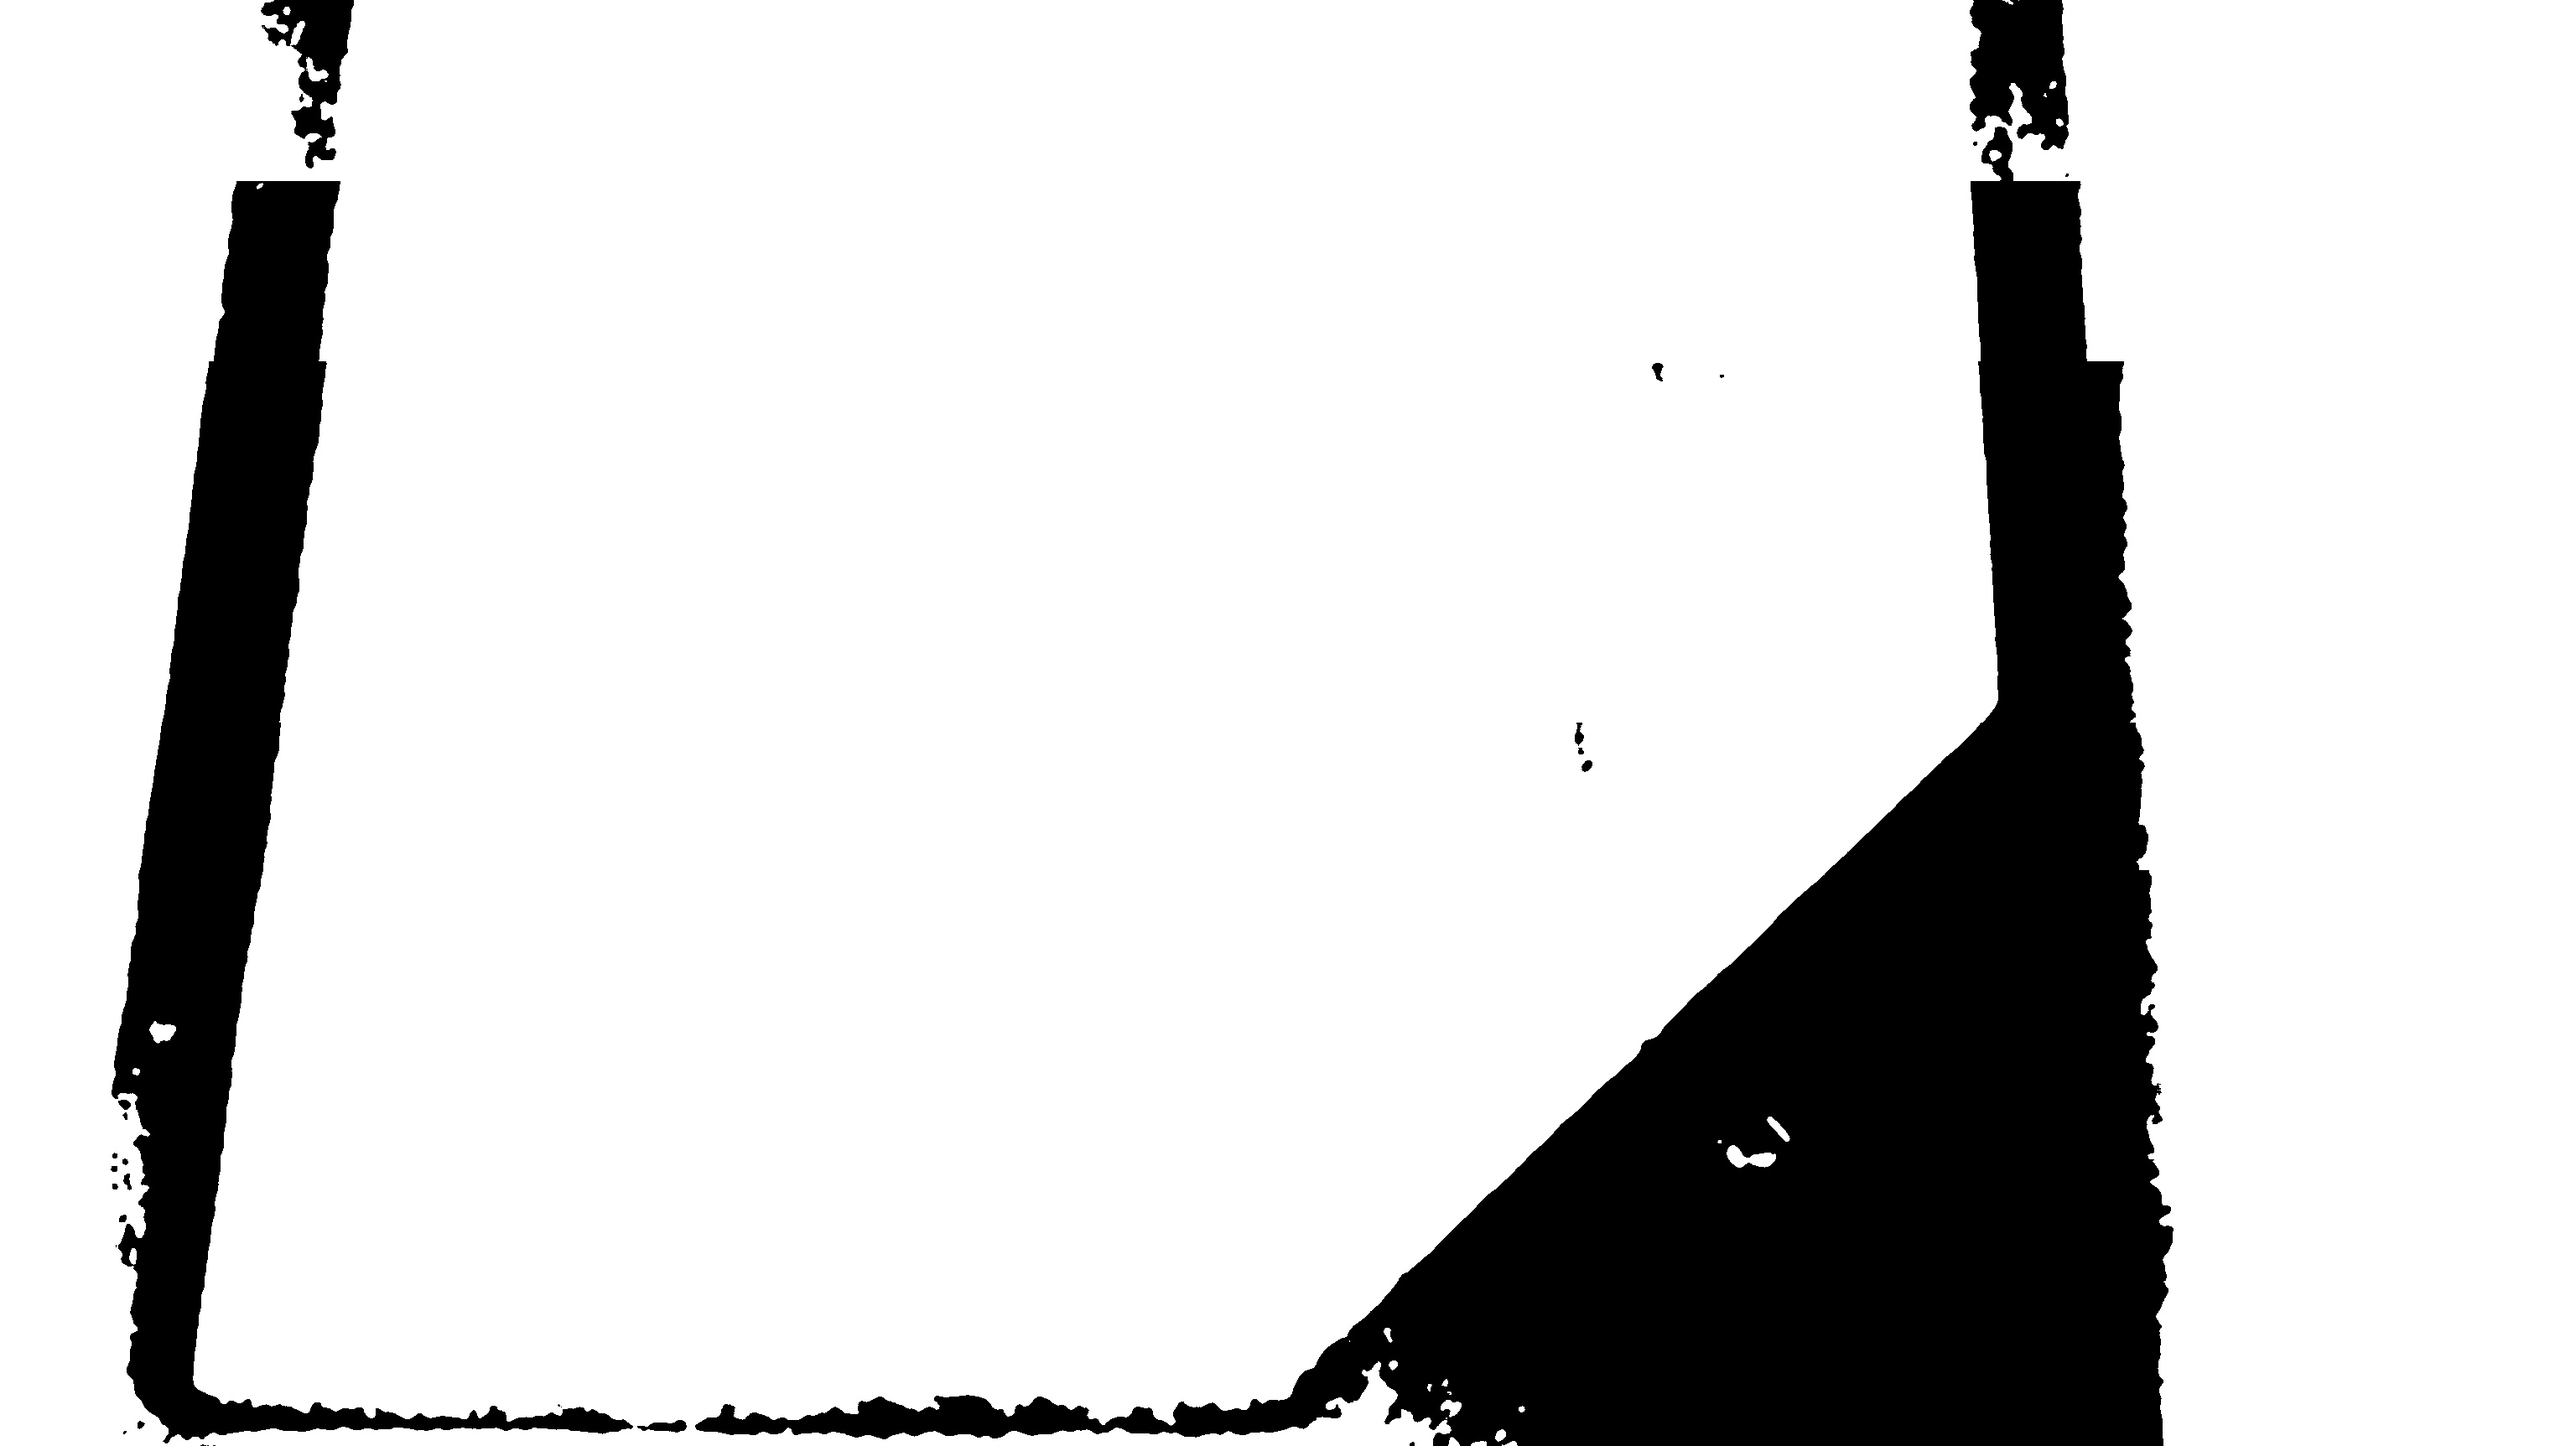
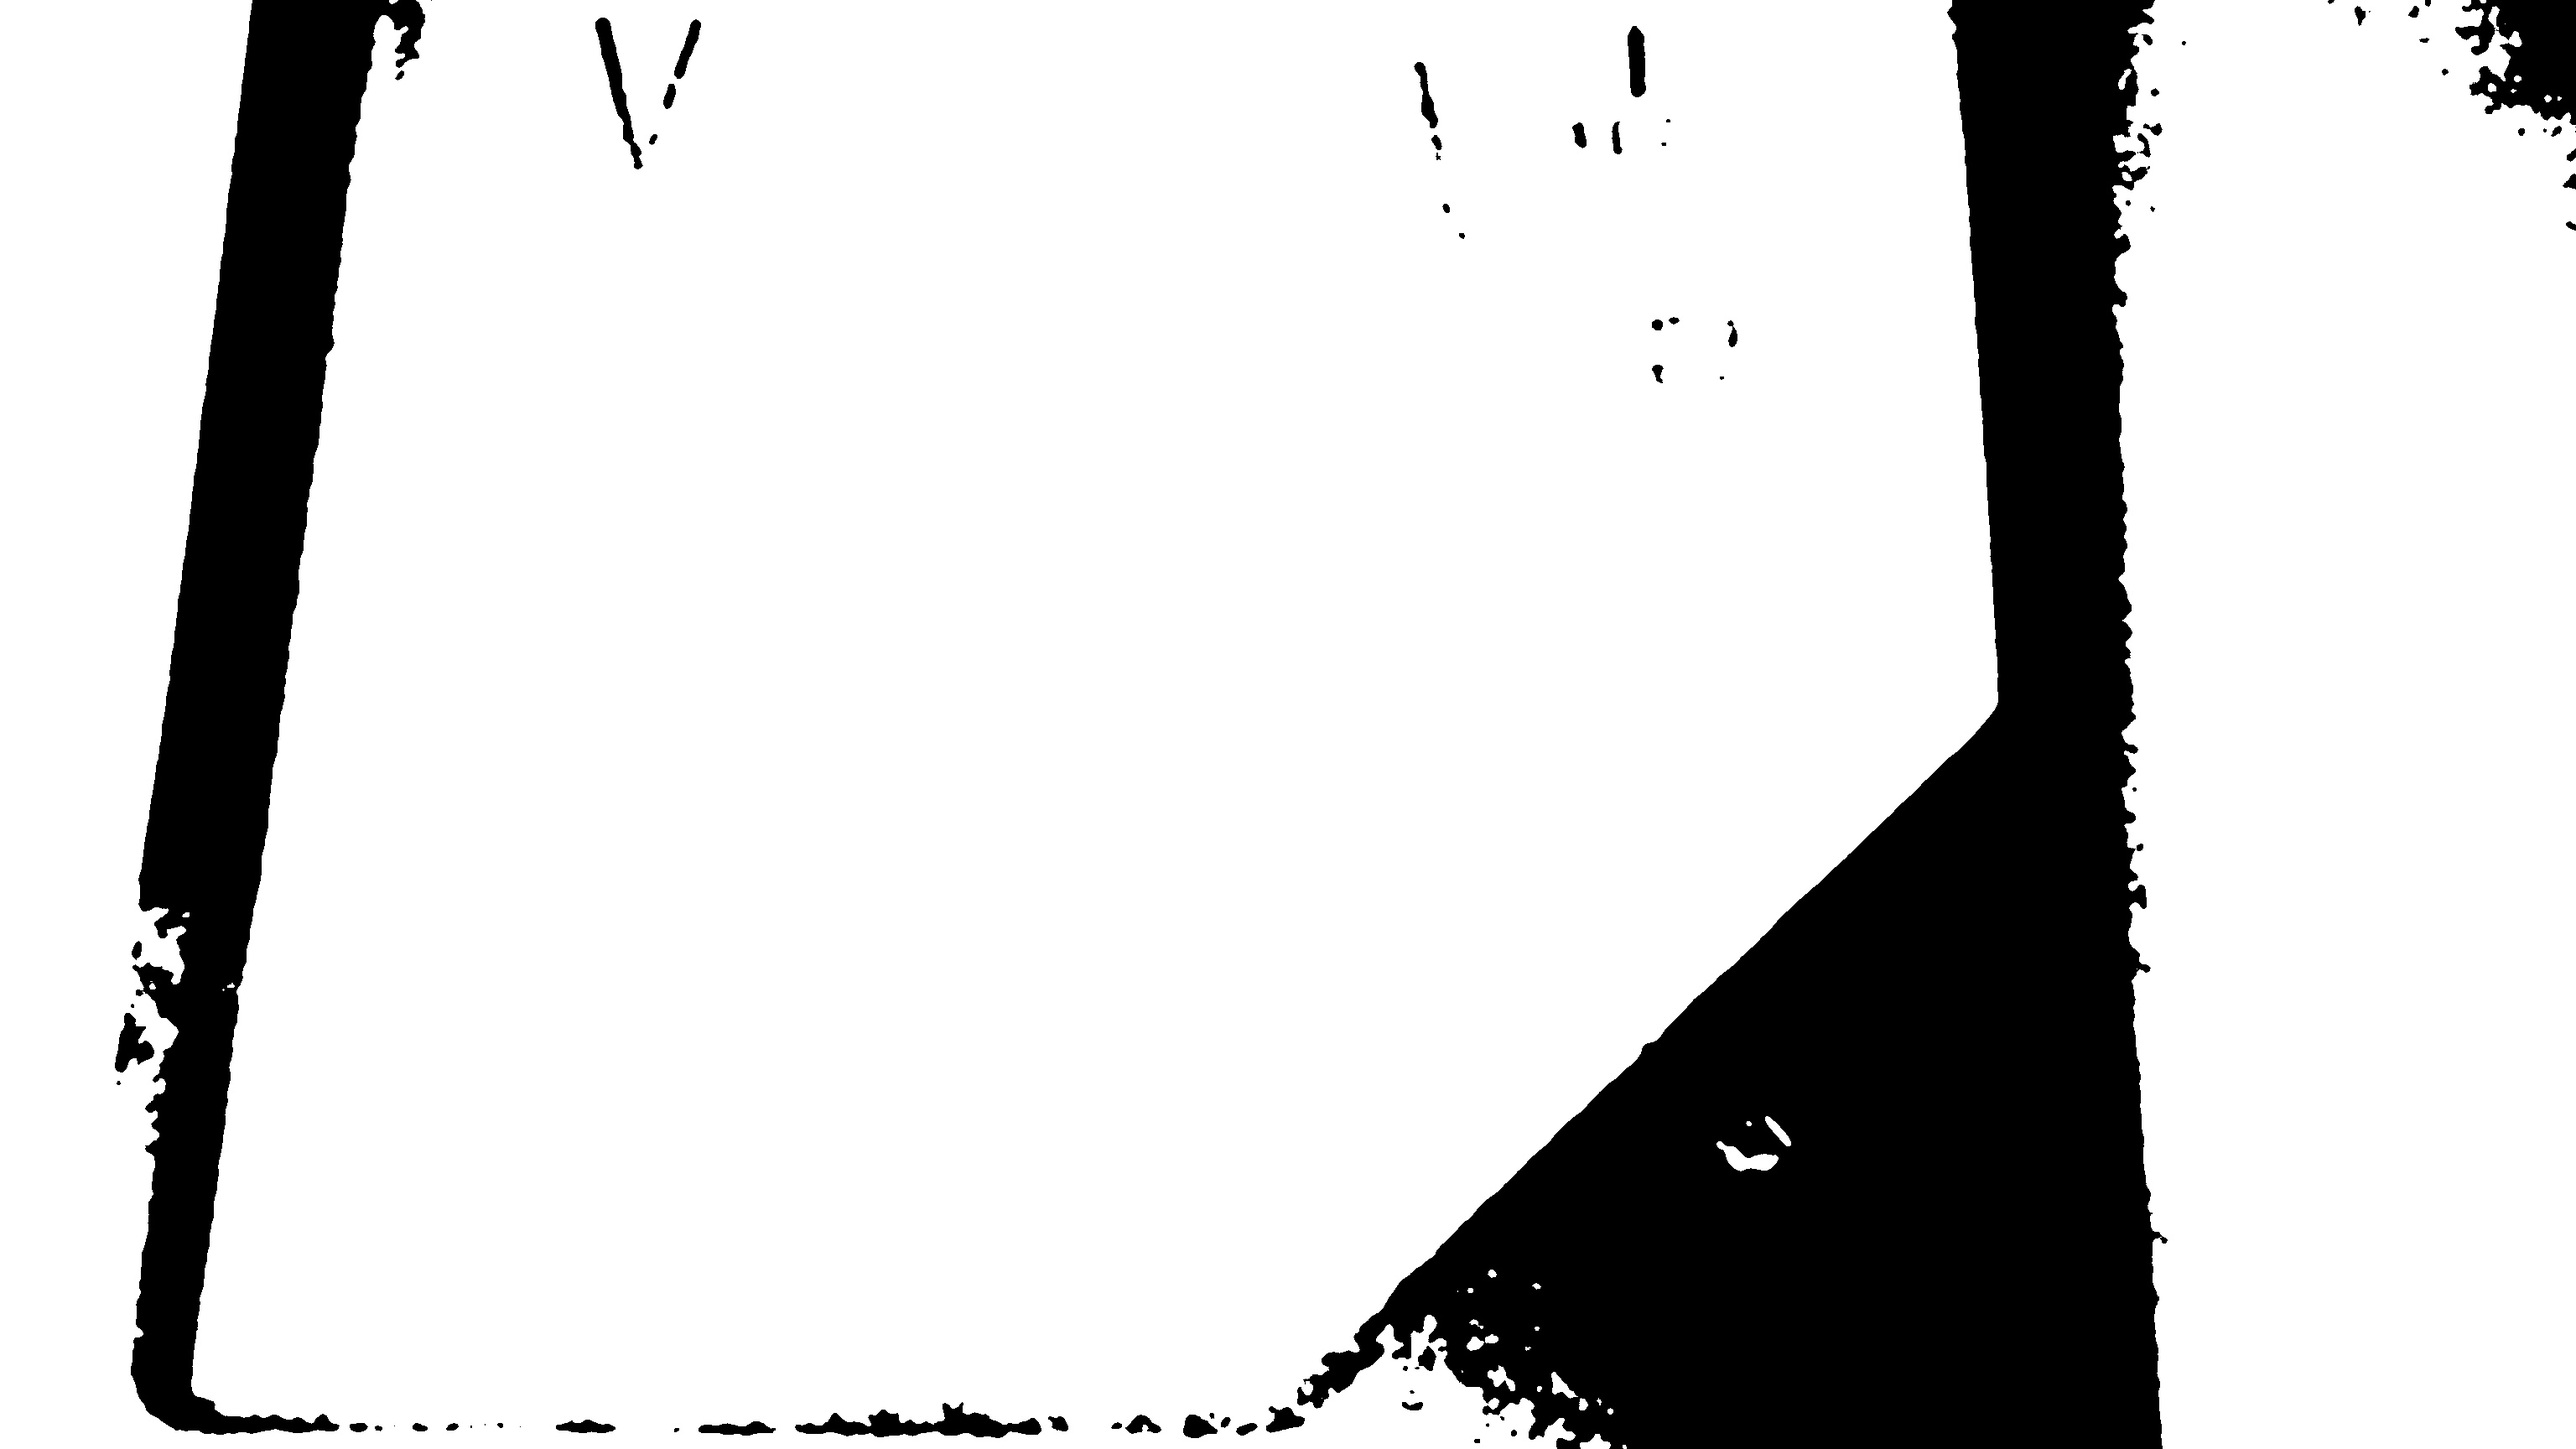
支持对旋转的表盘进行识别

diff --git a/ReadingMeters/Main.cpp b/ReadingMeters/Main.cpp
@@ -8,7 +8,7 @@
 #include <Windows.h>
 #include <math.h>
 
-#define IMAGE_NUM 7
+#define IMAGE_NUM 5
 #define WINDOW_CHANGABLESIZE 0
 #define CANNY_THRESHOLD_1 45
 #define CANNY_THRESHOLD_2 90
@@ -29,6 +29,8 @@
 #define VARIANCE_THRESHOLD0 1000
 #define VARIANCE_THRESHOLD1 10
 #define SEP_LEVEL 20
+#define ZOOM_TIMES 5
+#define CUT_PART 36
 
 using namespace cv;
 using namespace std;
@@ -48,10 +50,11 @@ Mat SeperateRGB(Mat srcImage, int num, int low, int high);
 vector<Vec2f> VarianceSelectOfLines(vector<Vec2f> lines, float threshold0, float threshold1);
 int * SamplingMat(int targetrows, int targetcols, Mat inputImage, int num);
 Mat transform(Mat dstImage, Mat srcImage, int num);
+Mat rotateImage(Mat img, double degree);
 
 int main() {
-	printf("\n\n\n##########     ReadingMeters v0.0.10     ##########\n");
-	printf("##########  Last updating in 2017/11/5   ##########\n\n\n");
+	printf("\n\n\n##########     ReadingMeters v0.0.11     ##########\n");
+	printf("##########  Last updating in 2017/11/19   ##########\n\n\n");
 
 	int pic_num = 1;
 
@@ -208,6 +211,8 @@ Mat transformProcess(Mat srcImage, Mat dstImage, int num) {
 	char dstEdge[] = "result\\0_edge.jpg";
 	char dstHough[] = "result\\0_hough1.jpg";
 	char dstRec[] = "result\\0_rec.jpg";
+	char dstRot[] = "result\\0_rotation.jpg";
+	char dstRot2[] = "result\\0_rotation2.jpg";
 	
 	dst[7] = 49 + num;
 	dstFind[7] = 49 + num;
@@ -215,6 +220,8 @@ Mat transformProcess(Mat srcImage, Mat dstImage, int num) {
 	dstEdge[7] = 49 + num;
 	dstHough[7] = 49 + num;
 	dstRec[7] = 49 + num;
+	dstRot[7] = 49 + num;
+	dstRot2[7] = 49 + num;
 
 	Mat greyImage;
 	//-------------------Greyed
@@ -224,7 +231,9 @@ Mat transformProcess(Mat srcImage, Mat dstImage, int num) {
 	//-------------------Median Filter
 	medianBlur(dstImage, dstImage, MEDIAN_BLUR_SIZE);
 	Mat samBiImage;
+	Mat rotImage;
 	dstImage.copyTo(samBiImage);
+	dstImage.copyTo(rotImage);
 	//-------------------cut into 4pics & binary
 	Mat dstImage1 = dstImage(Range(0, dstImage.rows / 2), Range(0, dstImage.cols / 2));
 	Mat dstImage2 = dstImage(Range(0, dstImage.rows / 2), Range(dstImage.cols / 2 + 1, dstImage.cols));
@@ -240,7 +249,169 @@ Mat transformProcess(Mat srcImage, Mat dstImage, int num) {
 	Mat dstImageRight = mergeRows(dstImage2, dstImage4);
 	dstImage = mergeCols(dstImageLeft, dstImageRight);
 	imwrite(dstMerge, dstImage);
+
+	//-------------------rotation
+	resize(rotImage, rotImage, Size(rotImage.cols/ZOOM_TIMES, rotImage.rows/ZOOM_TIMES));
+	rotImage = rotateImage(rotImage, 230);
+	
+	imwrite(dstRot, rotImage);
+	
+	threshold(rotImage,rotImage, GREY_WHITE*0.18, GREY_WHITE, THRESH_BINARY);
+
+	Mat rotImageOut;
+	rotImage.copyTo(rotImageOut);
+	//imwrite(dstRot, rotImageOut);
+
+	//轮廓检测
+	/*
+	vector<vector<Point>> contours;
+	vector<Vec4i> hierarchy;
+	findContours(rotImage, contours, hierarchy, RETR_EXTERNAL, CHAIN_APPROX_NONE);
+	
+	int index = 0;
+	for (; index >= 0; index = hierarchy[index][0]) {
+		Scalar color(255, 255, 255);
+		drawContours(rotImage, contours, index, color, FILLED, 8, hierarchy);
+	}
+	*/
+	
+
+	Canny(rotImage, rotImage, CANNY_THRESHOLD_3, CANNY_THRESHOLD_4);
+
+	//imwrite(dstRot, rotImage);
+
+	vector<Vec2f> hLines;
+
+	HoughLines(rotImage, hLines, 1, CV_PI / 180, (HOUGH_THRESHOL+40)/ZOOM_TIMES, 0, 0);
+
+	//统计直线最多的范围
+	size_t lineStatistics[CUT_PART+1];
+
+	for (int i = 0; i < CUT_PART + 1; i++) {
+		lineStatistics[i] = 0;
+	}
+	
+	for (size_t i = 0; i < hLines.size(); i++) {
+		//DrawLine(hLines[i][0], hLines[i][1], rotImage, dstRot, Scalar(255,0,0));
+		lineStatistics[(int)(hLines[i][1] / CV_PI * CUT_PART)]++;
+	}
+	//imwrite(dstRot, rotImage);
+	int statisticMax = lineStatistics[0];
+	int iMax = 0;
+	for (int i = 0; i < CUT_PART + 1; i++) {
+		if (lineStatistics[i] > statisticMax) {
+			statisticMax = lineStatistics[i];
+			iMax = i;
+		}
+		//printf("[%d]:%d\n", i, lineStatistics[i]);
+	}
+	
+	//printf("The most line theta: %d - %d\n", 180 + 180*iMax/CUT_PART, 180+180*(iMax + 1)/CUT_PART);
+
+	rotImageOut = rotateImage(rotImageOut, 180 + 180 * (iMax + 1/2) / CUT_PART);
+
+	int du = 180 + 180 * (iMax + 1 / 2) / CUT_PART;
+
+	//printf("theta:%d\n", du);
+
+	imwrite(dstRot2, rotImageOut);
+
+	//向x轴y轴投影
+	int *ptOut = SamplingMat(400, 400, rotImageOut, num);
+	int arrayOut[800];
+	for (int i = 0; i < 800; i++) {
+		arrayOut[i] = *(ptOut + i);
+	}
+	int *ptRot = arrayOut;
+	int x_begin = -1, x_end = -1, y_begin = -1, y_end = -1;
+
+	for (int i = 0; i < 400; i++) {
+		if (*(ptRot + i) != 0 && x_begin < 0)
+			x_begin = i;
+		if (*(ptRot + 399 - i) != 0 && x_end < 0)
+			x_end = 399 - i;
+		if (*(ptRot + 400 + i) != 0 && y_begin < 0)
+			y_begin = 400 + i;
+		if (*(ptRot + 799 - i) != 0 && y_end < 0)
+			y_end = 799 - i;
+		if (x_begin > 0 && x_end > 0 && y_begin > 0 && y_end > 0)
+			break;
+	}
+
+	//printf("x:(%d-%d);y:(%d-%d)\n", x_begin, x_end, y_begin, y_end);
+
+	int x_half1 = 0, x_half2 = 0, y_half1 = 0, y_half2 = 0;
+
+	int num_before = -1;
+	//printf("x:\n");
+	for (int i = x_begin; i < (x_begin + x_end) / 2; i++) {
+		if (num_before == -1)
+			num_before = *(ptRot + i);
+		else {
+			//printf("%d\n", num_before - *(ptRot + i));
+			if (num_before > *(ptRot + i))
+				if (fabs(num_before - *(ptRot + i)) <= 1000 && fabs(num_before - *(ptRot + i)) >= 200)
+					x_half1++;
+			num_before = *(ptRot + i);
+		}
+	}
+	num_before = -1;
+	for (int i = (x_begin + x_end) / 2 + 1; i < x_end; i++) {
+		if (num_before == -1)
+			num_before = *(ptRot + i);
+		else {
+			//printf("%d\n", num_before - *(ptRot + i));
+			if (num_before < *(ptRot + i))
+				if (fabs(num_before - *(ptRot + i)) <= 1000 && fabs(num_before - *(ptRot + i)) >= 200)
+					x_half2++;
+			num_before = *(ptRot + i);
+		}
+	}
+	num_before = -1;
+	//printf("y:\n");
+	for (int i = y_begin; i < (y_begin + y_end) / 2; i++) {
+		//printf("%d:%d\n", i, *(ptRot + i));
+		if (num_before == -1)
+			num_before = *(ptRot + i);
+		else {
+			//printf("%d\n", num_before - *(ptRot + i));
+			if (num_before > *(ptRot + i))
+				if (fabs(num_before - *(ptRot + i)) <= 1000 && fabs(num_before - *(ptRot + i)) >= 150)
+					y_half1++;
+			num_before = *(ptRot + i);
+		}
+	}
+	num_before = -1;
+	for (int i = (y_begin + y_end) / 2 + 1; i < y_end; i++) {
+		if (num_before == -1)
+			num_before = *(ptRot + i);
+		else {
+			//printf("%d\n", num_before - *(ptRot + i));
+			if (num_before < *(ptRot + i))
+				if (fabs(num_before - *(ptRot + i)) <= 1000 && fabs(num_before - *(ptRot + i)) >= 150)
+					y_half2++;
+			num_before = *(ptRot + i);
+		}
+	}
+	
+	//printf("(x_1,x_2;y_1,y_2):(%d,%d,%d,%d)\n",x_half1,x_half2,y_half1,y_half2);
+
+	if (x_half1 > x_half2 && y_half1 > y_half2) {
+		printf("Need rotate: %d\n", (du + 180) % 360);
+	}
+	else if (x_half1 > x_half2 && y_half1 < y_half2) {
+		printf("Need rotate: %d\n", (du + 90) % 360);
+	}
+	else if (x_half1 < x_half2 && y_half1 > y_half2) {
+		printf("Need rotate: %d\n", (du + 270) % 360);
+	}
+	else if (x_half1 < x_half2 && y_half1 < y_half2) {
+		printf("Need rotate: %d\n", du % 360);
+	}
 	//--------------------sampling
+
+	/*use before to cut multi-meter picture
+
 	Mat samBiImage1 = samBiImage(Range(0, samBiImage.rows/8), Range(0, samBiImage.cols));
 	Mat samBiImage2 = samBiImage(Range(samBiImage.rows / 8 + 1, samBiImage.rows / 4), Range(0, samBiImage.cols));
 	Mat samBiImage3 = samBiImage(Range(samBiImage.rows / 4 + 1, samBiImage.rows/2), Range(0, samBiImage.cols));
@@ -254,6 +425,9 @@ Mat transformProcess(Mat srcImage, Mat dstImage, int num) {
 	samBiImage = mergeRows(samBiImage1, samBiImage2);
 	samBiImage = mergeRows(samBiImage, samBiImage3);
 	samBiImage = mergeRows(samBiImage, samBiImage4);
+	*/
+
+	threshold(samBiImage, samBiImage, GREY_WHITE*0.18, GREY_WHITE, THRESH_BINARY);
 
 	int * pt = SamplingMat(300, 300, samBiImage, num);
 
@@ -673,8 +847,8 @@ int* SamplingMat (int rows, int cols, Mat srcImage, int num) {
 	Mat dstImage;
 	dstImage.create(rows, cols, srcImage.type());
 
-	int a = srcImage.rows / rows;
-	int b = srcImage.cols / cols;
+	float a = (float)srcImage.rows / rows;
+	float b = (float)srcImage.cols / cols;
 	int array1 [800];
 	
 	char dstSamp[] = "result\\0_samp.jpg";
@@ -685,25 +859,30 @@ int* SamplingMat (int rows, int cols, Mat srcImage, int num) {
 	for (int i = 0; i < 800; i++) {
 		array1[i] = 0;
 	}
+	float i = a / 2;
 
-	for (int x = 0, i = a / 2; i < srcImage.rows && x < rows; i += a, x++) {
-		for (int y = 0, j = b / 2; j < srcImage.cols && y < cols; j += b, y++) {
-			dstImage.at<uchar>(x, y) = srcImage.at<uchar>(i, j);
-			array1[y] = array1[y] + 255 - srcImage.at<uchar>(i, j);
-			array1[x+400] = array1[x+400] + 255 - srcImage.at<uchar>(i, j);
+	//printf("a:%f,i:%f\n", a, i);
+	for (int x = 0; (int)(i+1) < srcImage.rows && x < rows; i += a, x++) {
+		//printf("i:%d\n", (int)(i+1));
+		float j = b / 2;
+		for (int y = 0; (int)(j+1) < srcImage.cols && y < cols; j += b, y++) {
+			//printf("j:%d\n", (int)(j + 1));
+			//printf("asdas:%d\n", srcImage.at<uchar>((int)i, (int)j));
+			array1[y] = array1[y] + 255 - srcImage.at<uchar>((int)i, (int)j);
+			array1[x+400] = array1[x+400] + 255 - srcImage.at<uchar>((int)i, (int)j);
 		}
 	}
-	if (num == 6) {
-		printf("x轴：");
+	if (num == -1) {
+		printf("x轴：\n");
 
-		for (int i = 0; i < 400; i++) {
-			printf("%d\n", array1[i]);
+		for (int k = 0; k < 400; k++) {
+			printf("%d\n", array1[k]);
 		}
 
-		printf("y轴：");
+		printf("y轴：\n");
 
-		for (int i = 0; i < 400; i++) {
-			printf("%d\n", array1[i + 400]);
+		for (int k = 0; k < 400; k++) {
+			printf("%d\n", array1[k + 400]);
 		}
 	}
 	return array1;
@@ -813,3 +992,30 @@ Mat transform(Mat dstImage, Mat srcImage, int num) {
 
 	return transImage;
 }
+
+
+Mat rotateImage(Mat img, double degree) {
+	double angle = degree  * CV_PI / 180.0; // 弧度    
+	double a = sin(angle), b = cos(angle);
+	int width = img.rows;
+	int height = img.cols;
+	int width_rotate = int(height * fabs(a) + width * fabs(b));
+	int height_rotate = int(width * fabs(a) + height * fabs(b));
+	//旋转数组map  
+	// [ m0  m1  m2 ] ===>  [ A11  A12   b1 ]  
+	// [ m3  m4  m5 ] ===>  [ A21  A22   b2 ]  
+	Mat map_matrix = Mat(2, 3, CV_32F);
+	// 旋转中心  
+	Point2f center = Point2f(height/2, width / 2);
+	map_matrix = getRotationMatrix2D(center, degree, 1);
+	map_matrix.at<double>(0, 2) += (double)(height_rotate - height) / 2.0; 
+	map_matrix.at<double>(1, 2) += (double)(width_rotate - width) / 2.0;
+	//height_rotate have some problem
+
+	Mat img_rotate;
+	//img_rotate.create(width_rotate, height_rotate, img.type());
+	//对图像做仿射变换   
+	warpAffine(img, img_rotate, map_matrix, Size(height_rotate, width_rotate), 1, 0, Scalar(255, 255, 255));
+	return img_rotate;
+}
+
